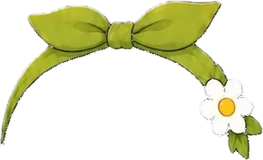
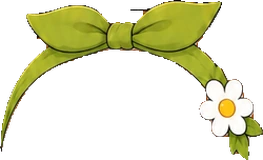
사파리 머리띠 재탑재 — 머리에 맞게 작아졌다 (#631)
'베이스가 쓰고 있는 머리 그림'을 새로 받아 다시 탑재했다.
예전엔 머리띠만 오려 낸 그림을 눈으로 맞춰서 머리보다 크고 낮게 얹혀 있었다.
탑재 상자 (362,102)-(659,282) → (391,84)-(640,235) — 머리 폭 안으로 들어왔다.

맞추는 방법 — 머리 그림은 전신과 달리 '머리끝·발끝' 두 점이 없고,
리본이 머리 위로 솟아 있어 알파 상자 위끝도 못 쓴다.
대신 얼굴 살색 덩어리의 상자로 맞춘다. 머리띠는 머리카락 위에 얹히지 얼굴을 가리지 않아
두 그림에서 얼굴이 똑같이 나온다.
  원화 얼굴 (122,202)-(425,409) → 베이스 얼굴 (419,218)-(630,361)
  배율 kx 0.6974 · ky 0.6923 → 0.6948
눈·코·입·귀·갈래머리가 전부 겹쳤다.

떼어낼 때는 색차 100 초과 + 가장 큰 덩어리 하나만 남긴다 —
눈썹선·턱선처럼 원화와 베이스가 미세하게 다른 자리가 300~2,000픽셀씩 따로 잡힌다.

- 그림 덮어쓰고 경로에 ?v=3 (기존 기기 캐시 끊기), 상점 썸네일도 다시 뽑았다
- 구버전 원본(art-src/safari-girl-band-src.webp) 삭제, 새 원본은 -worn-src 로 보관
- art-src/README 에 '머리 장비는 얼굴로 맞춘다' 절 추가, 옛 탑재값은 폐기 표시

확인
- vite build 통과

Claude-Session: https://claude.ai/code/session_018maNuYqDfFyRSe9uKpZhPR

diff --git a/src/data/avatarEquipment.js b/src/data/avatarEquipment.js
@@ -149,8 +149,11 @@ export const AVATAR_CATALOG = [
   { id: "bottom_shorts_green", slot: "bottom", label: "기본 반바지", emoji: "🩳", price: 0, rarity: "common", theme: "common", starter: true, img: "assets/avatar/bottom/starter-shorts.webp", imgGirl: "assets/avatar/bottom/starter-shorts-girl.webp", thumb: "assets/avatar/thumb/bottom_shorts_green.webp" },
 
   /* 머리띠 — 머리를 덮는 물건이 아니라 hidesHead 를 안 쓴다.
-     (얼굴째 덮던 남아 사파리 모자 그림은 v7 몸에 안 맞아 카탈로그에서 뺐다 — 파일은 남아 있다) */
-  { id: "hat_safari",     slot: "hat",   label: "사파리 머리띠", emoji: "🌼", price: 180, rarity: "rare",   theme: "adventure", forGender: "girl", img: "assets/avatar/hat/safari-band-girl.webp?v=2", thumb: "assets/avatar/thumb/hat_safari.webp" },
+     (얼굴째 덮던 남아 사파리 모자 그림은 v7 몸에 안 맞아 카탈로그에서 뺐다 — 파일은 남아 있다)
+     [2026-08-20] '베이스가 쓰고 있는 머리 그림'을 새로 받아 다시 탑재했다(?v=3).
+     예전엔 머리띠만 오려 낸 그림을 눈으로 맞춰서 머리보다 크게 얹혀 있었다
+     (탑재 상자 362~659 → 391~640, 머리 폭 안으로 들어옴). art-src/README 참고. */
+  { id: "hat_safari",     slot: "hat",   label: "사파리 머리띠", emoji: "🌼", price: 180, rarity: "rare",   theme: "adventure", forGender: "girl", img: "assets/avatar/hat/safari-band-girl.webp?v=3", thumb: "assets/avatar/thumb/hat_safari.webp" },
   /* 사파리 옷 — 원화가 블라우스+반바지 한 장이라 상의 슬롯 하나로 넣는다(사용자 확정).
      상의(35)가 하의(30) 위라 하의를 같이 껴도 이 그림이 덮는다. */
   { id: "top_vest",       slot: "top",   label: "사파리 옷",   emoji: "👚", price: 150, rarity: "rare",   theme: "adventure", forGender: "girl", coversBottom: true, img: "assets/avatar/top/safari-outfit-girl.webp?v=2", thumb: "assets/avatar/thumb/top_vest.webp" },
